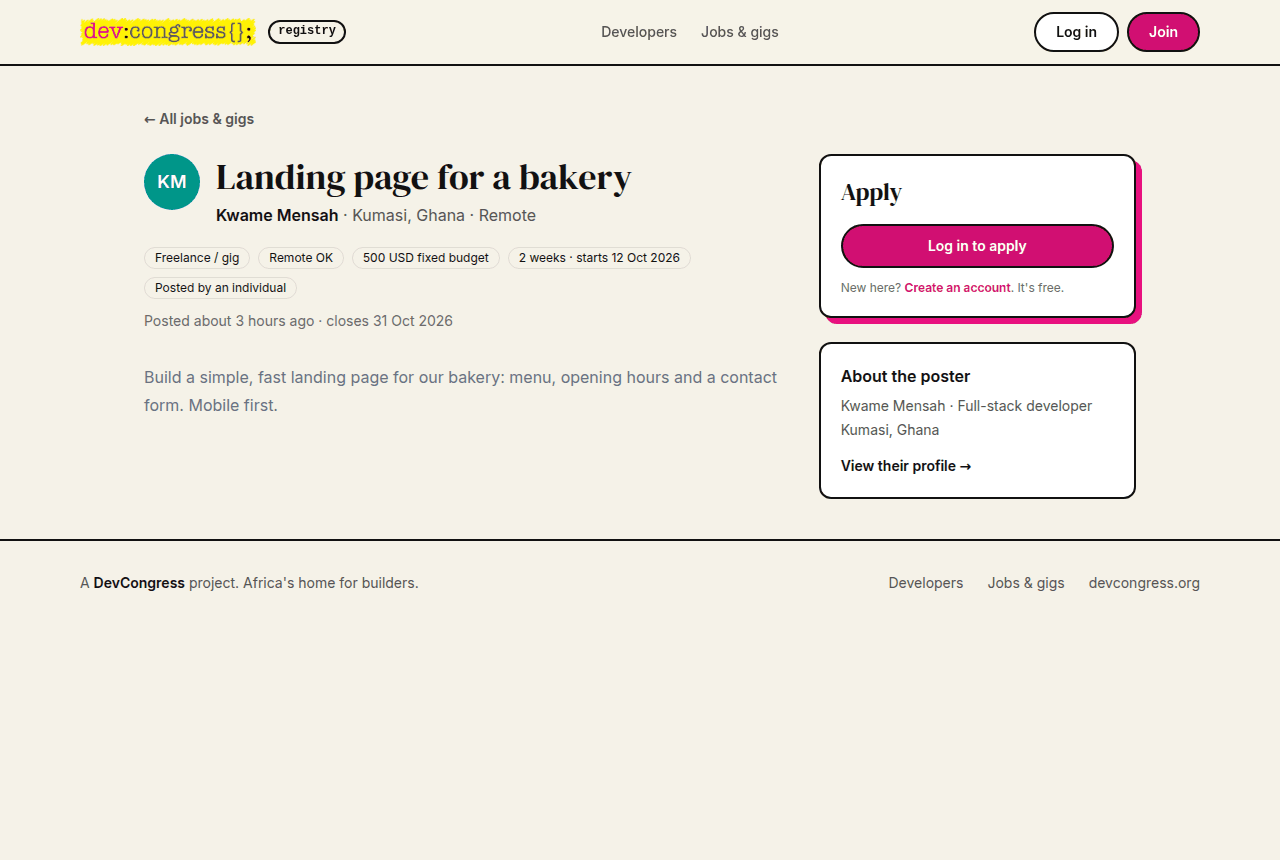
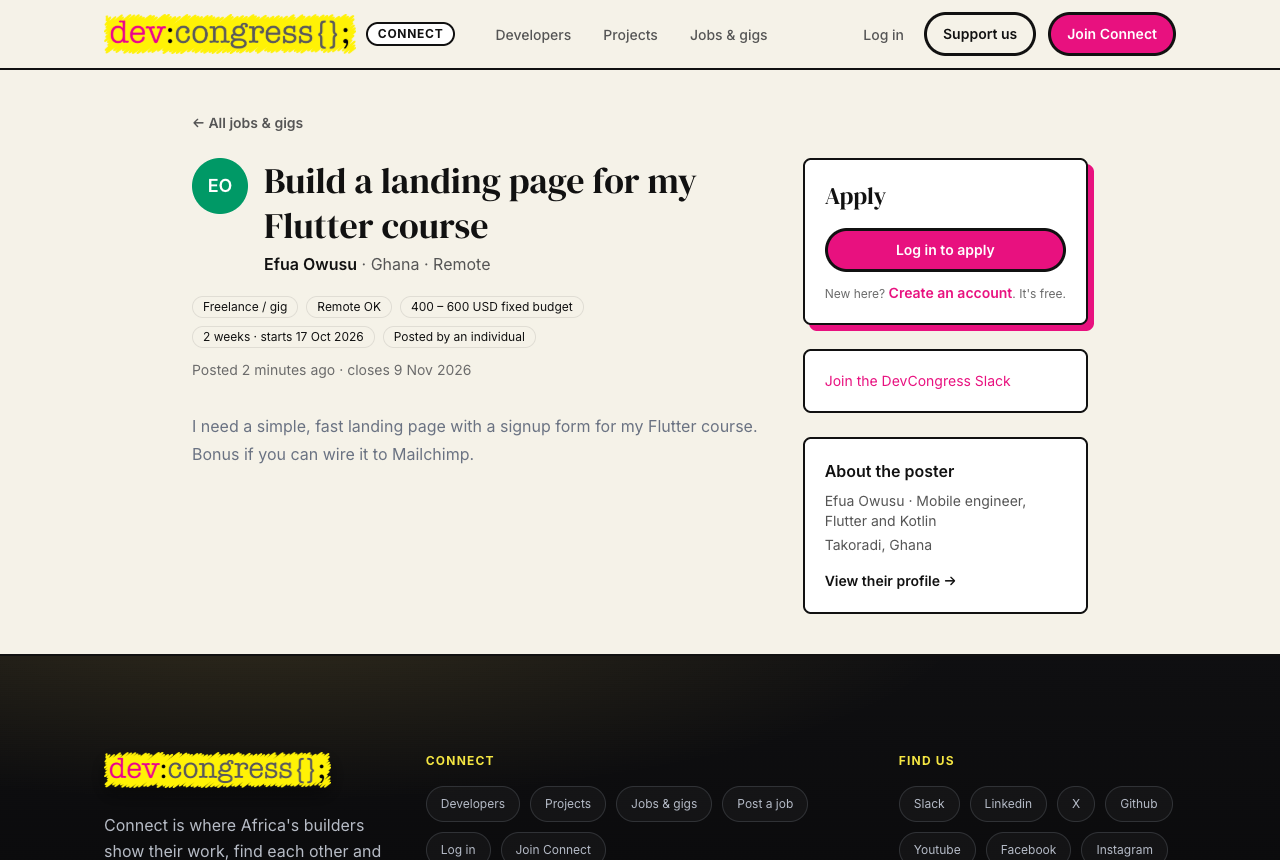
docs: retake screenshots after the DevCongress Connect rebrand

diff --git a/docs/screenshots/README.md b/docs/screenshots/README.md
@@ -1,7 +1,8 @@
 # Screenshots
 
-Taken from the development seed data (light mode, 1280px wide unless noted).
-The top-bar avatar is a Gravatar, which the screenshot sandbox couldn't load.
+Taken with demo data (light mode, 1280px wide unless noted), after the
+DevCongress Connect rebrand. Slack sign-in and the Slack cards show because
+their env vars were set; no Slack messages were sent.
 
 | File | Shows |
 |---|---|
@@ -10,13 +11,13 @@ The top-bar avatar is a Gravatar, which the screenshot sandbox couldn't load.
 | 03-developer-profile | `/@handle` profile, with the gigs they've posted |
 | 04-board | Jobs & gigs board with All / Jobs / Gigs / Internships tabs |
 | 05-gig-by-individual | A gig posted by an individual |
-| 06-login-social | Login with Google / GitHub |
-| 07-home-dashboard | `/dashboard` home |
+| 06-login-social | Login with Google / GitHub / Slack |
+| 07-home-dashboard | `/dashboard` home, with the Join / Connect Slack card |
 | 08-developer-dashboard | Developer portal overview |
 | 09-company-dashboard | Company portal overview with the hiring pipeline |
 | 10-applicant-board | Applicant board by stage |
 | 11-application-page | Application page: CV, rating, activity log |
-| 12-post-form-gig | New post form with the gig fields shown |
+| 12-post-form-gig | New post form with the gig fields (Timing) shown |
 | 13-email-new-applicant | "New applicant" email |
 | 14-board-mobile | Board on a phone (390px) |
 | 15-projects | `/projects`, with stack filter |
